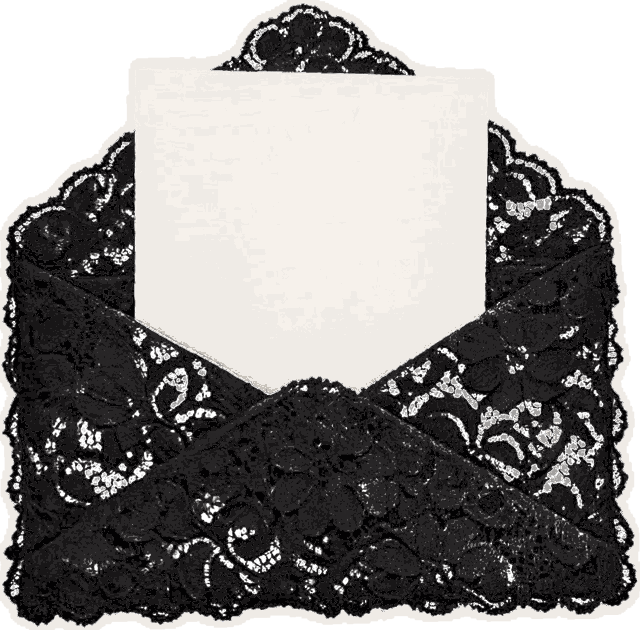
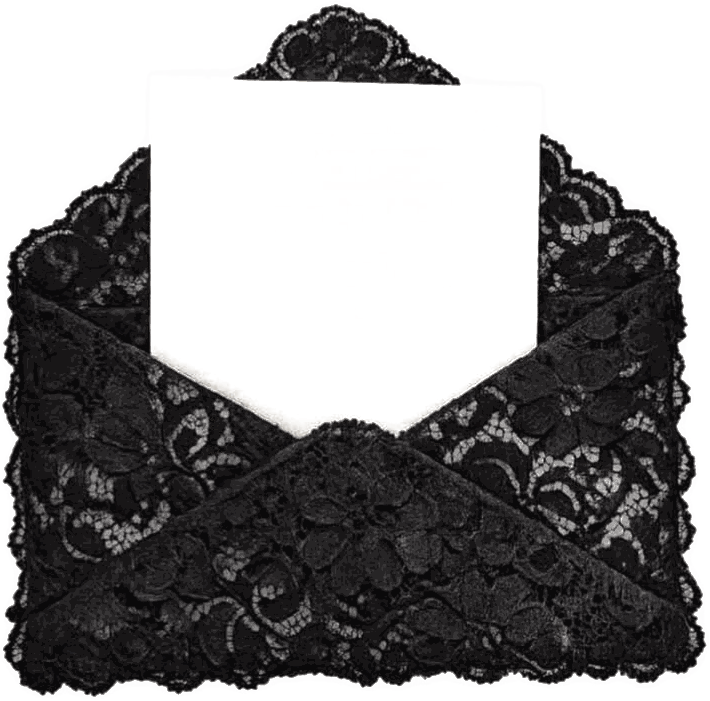
Correções da Mariana: história, dress code, RSVP e acordeão
- Nossa história: texto sempre visível, por cima da foto da praia em P&B
  (como no PDF); as fotos passando vêm logo depois.
- Menu da capa com cara de botão (pílulas), em vez de texto solto.
- Dress Code refeito como no PDF: moldura de renda, foto principal e
  referências all black passando.
- Confirme sua presença: o título fica escrito na folha dentro do
  envelope (monograma + texto).
- Lista de presentes vira acordeão que abre e fecha (começa fechada).
- Transições entre blocos bordô e creme com degradê, não com linha reta.
- Usa as artes limpas enviadas pela Mariana (bistrô, envelope, renda,
  cachorros) e remove a ilustração não usada da torre.

Claude-Session: https://claude.ai/code/session_01267eLTqaY5nyv3X6eqU5WE

diff --git a/site/index.html b/site/index.html
@@ -82,16 +82,13 @@
     </header>
 
     <main>
-      <!-- ---- NOSSA HISTÓRIA (recolhível, começa fechada) ---- -->
-      <details id="historia" class="bloco bloco--historia">
-        <summary>
-          <div class="bloco-inner">
-            <h2 class="script titulo-secao" data-bind="secoes.historia.titulo">·</h2>
-            <span class="bloco-chevron"></span>
-          </div>
-        </summary>
-        <div class="bloco-inner historia-texto" data-bind-paragrafos="secoes.historia.paragrafos"></div>
-      </details>
+      <!-- ---- NOSSA HISTÓRIA (texto sobre a foto, sempre visível) ---- -->
+      <section id="historia" class="bloco bloco--historia">
+        <div class="bloco-inner">
+          <h2 class="script titulo-secao" data-bind="secoes.historia.titulo">·</h2>
+          <div class="historia-texto" data-bind-paragrafos="secoes.historia.paragrafos"></div>
+        </div>
+      </section>
 
       <!-- ---- SLIDESHOW (nossas fotos passando) ---- -->
       <section id="slideshow" class="bloco bloco--creme">
@@ -107,14 +104,9 @@
       </section>
 
       <!-- ---- QUANDO & ONDE ---- -->
-      <details id="quando" class="bloco bloco--creme" open>
-        <summary>
-          <div class="bloco-inner">
-            <h2 class="script titulo-secao" data-bind="secoes.quandoOnde.titulo">·</h2>
-            <span class="bloco-chevron"></span>
-          </div>
-        </summary>
+      <section id="quando" class="bloco bloco--creme">
         <div class="bloco-inner">
+          <h2 class="script titulo-secao" data-bind="secoes.quandoOnde.titulo">·</h2>
           <img class="ill ill-venue" src="assets/ill/venue.png" alt="Ilustração do espaço da festa">
           <div class="dados">
             <p>Data: <strong data-bind="evento.dataTexto">·</strong></p>
@@ -129,32 +121,30 @@
           </div>
           <img class="foto-jardim" src="assets/fotos/jardim.jpg" alt="Felipe e Mariana">
         </div>
-      </details>
+      </section>
 
-      <!-- ---- DRESS CODE ---- -->
-      <details id="dress" class="bloco bloco--bordo bloco--dress" open>
-        <summary>
-          <div class="bloco-inner">
-            <h2 class="script titulo-secao" data-bind="secoes.dressCode.titulo">·</h2>
-            <span class="bloco-chevron"></span>
-          </div>
-        </summary>
+      <!-- ---- DRESS CODE (igual ao PDF: renda + foto + referências) ---- -->
+      <section id="dress" class="bloco bloco--bordo bloco--dress">
         <div class="bloco-inner">
+          <h2 class="script titulo-secao" data-bind="secoes.dressCode.titulo">·</h2>
           <p class="dress-destaque" data-bind="secoes.dressCode.destaque">·</p>
           <p class="corpo" data-bind="secoes.dressCode.corpo">·</p>
+          <img class="dress-foto" src="assets/fotos/dress-ref-1.jpg" alt="Inspiração all black">
+          <p class="rotulo rotulo--claro">Referências</p>
+          <div id="dress-refs" class="dress-refs"></div>
         </div>
-      </details>
+      </section>
 
-      <!-- ---- RSVP ---- -->
-      <details id="rsvp" class="bloco bloco--creme" open>
-        <summary>
-          <div class="bloco-inner">
-            <img class="ill ill-envelope" src="assets/ill/envelope.png" alt="">
-            <h2 class="script titulo-secao" data-bind="rsvp.titulo">·</h2>
-            <span class="bloco-chevron"></span>
-          </div>
-        </summary>
+      <!-- ---- RSVP (texto escrito na folha do envelope) ---- -->
+      <section id="rsvp" class="bloco bloco--creme">
         <div class="bloco-inner">
+          <div class="envelope-wrap">
+            <img class="ill ill-envelope" src="assets/ill/envelope.png" alt="">
+            <div class="envelope-texto">
+              <img class="envelope-mono" src="assets/monograma.svg" alt="">
+              <span class="script envelope-titulo" data-bind="rsvp.titulo">·</span>
+            </div>
+          </div>
           <p class="rsvp-grupo">Convite: <strong id="rsvp-grupo">·</strong></p>
           <form id="rsvp-form">
             <div id="rsvp-pessoas"></div>
@@ -163,13 +153,14 @@
           </form>
           <p id="rsvp-lembrete" class="lembrete" data-bind="rsvp.lembreteSemPresente" hidden>·</p>
         </div>
-      </details>
+      </section>
 
-      <!-- ---- PRESENTES ---- -->
-      <details id="presentes" class="bloco bloco--creme" open>
+      <!-- ---- PRESENTES (acordeão: abre e fecha) ---- -->
+      <details id="presentes" class="bloco bloco--creme bloco--acordeao">
         <summary>
           <div class="bloco-inner">
             <h2 class="script titulo-secao" data-bind="presentes.titulo">·</h2>
+            <span class="acordeao-dica">toque para ver a lista</span>
             <span class="bloco-chevron"></span>
           </div>
         </summary>
@@ -182,18 +173,13 @@
       </details>
 
       <!-- ---- RECADOS (bordô) ---- -->
-      <details id="recados" class="bloco bloco--bordo bloco--recados" open>
-        <summary>
-          <div class="bloco-inner">
-            <h2 class="script titulo-secao" data-bind="secoes.recados.titulo">·</h2>
-            <span class="bloco-chevron"></span>
-          </div>
-        </summary>
+      <section id="recados" class="bloco bloco--bordo bloco--recados">
         <div class="bloco-inner">
+          <h2 class="script titulo-secao" data-bind="secoes.recados.titulo">·</h2>
           <img class="ill ill-dogs" src="assets/ill/dogs.png" alt="">
           <div data-bind-paragrafos="secoes.recados.paragrafos"></div>
         </div>
-      </details>
+      </section>
 
       <!-- ---- MURAL (creme) ---- -->
       <section id="mural" class="bloco bloco--creme">

diff --git a/site/assets/base.css b/site/assets/base.css
@@ -192,14 +192,15 @@ label { display: block; margin-bottom: 0.35rem; color: var(--tinta-suave); }
 
 .capa-nav {
   margin-top: auto; padding-top: 1.8rem;
-  display: flex; flex-wrap: wrap; justify-content: center; gap: .4rem 1.6rem;
+  display: flex; flex-wrap: wrap; justify-content: center; gap: .6rem .7rem;
 }
 .capa-nav a {
   color: var(--creme); text-decoration: none;
-  font-family: var(--fonte-titulo); font-size: clamp(1.65rem, 5.5vw, 2.2rem); line-height: 1.15;
-  opacity: .96;
+  font-family: var(--fonte-titulo); font-size: clamp(1.45rem, 5vw, 1.95rem); line-height: 1;
+  border: 1px solid rgba(255,255,255,.5); border-radius: 999px;
+  padding: .5rem 1.15rem; background: rgba(255,255,255,.07);
 }
-.capa-nav a:hover { opacity: .75; }
+.capa-nav a:hover { background: rgba(255,255,255,.16); }
 
 /* ---- BLOCOS ---- */
 .bloco { padding: clamp(3rem, 11vw, 5rem) 0; scroll-margin-top: var(--nav-altura); position: relative; }
@@ -219,22 +220,43 @@ details.bloco > summary .titulo-secao { margin: 0; }
 .bloco--bordo .bloco-chevron { border-color: var(--creme); }
 details.bloco[open] > summary { margin-bottom: 1.3rem; }
 details.bloco[open] .bloco-chevron { transform: rotate(-135deg); margin-top: 0.9rem; }
+/* Acordeão da lista de presentes */
+.bloco--acordeao > summary:hover { background: rgba(116,12,35,.03); }
+.acordeao-dica {
+  display: block; text-align: center; font-size: .72rem; letter-spacing: .18em;
+  text-transform: uppercase; color: var(--tinta-suave); margin-top: .55rem;
+}
+details.bloco--acordeao[open] .acordeao-dica { display: none; }
 .bloco--creme { background: var(--creme); color: var(--tinta); }
 .bloco--bordo { background: var(--bordo); color: var(--creme); }
 .bloco--bordo .script { color: var(--creme); }
 .bloco--bordo .rotulo { color: rgba(255,255,255,.72); }
 .bloco p { margin: 0 0 1rem; }
 
-/* ---- NOSSA HISTÓRIA (texto sobre foto P&B esmaecida) ---- */
-.bloco--historia { background: var(--bordo); color: var(--creme); overflow: hidden; }
+/* ---- NOSSA HISTÓRIA (texto sobre a foto P&B, bem visível) ---- */
+.bloco--historia { background: var(--bordo-esc); color: var(--creme); overflow: hidden; }
 .bloco--historia::before {
-  content: ''; position: absolute; inset: 0;
-  background: url('fotos/praia.jpg') center 30%/cover no-repeat;
-  filter: grayscale(1); opacity: .16;
+  content: ''; position: absolute; inset: 0; z-index: 0;
+  background: url('fotos/praia.jpg') center 28%/cover no-repeat;
+  filter: grayscale(1); opacity: .5;
 }
-.bloco--historia .bloco-inner { position: relative; }
-.bloco--historia .titulo-secao { color: var(--creme); text-shadow: 0 2px 20px rgba(0,0,0,.4); }
-.historia-texto p { color: rgba(255,255,255,.94); }
+.bloco--historia::after {
+  content: ''; position: absolute; left: 0; right: 0; bottom: 0; height: 64px; z-index: 0;
+  background: linear-gradient(to top, var(--creme), rgba(251,243,231,0));
+}
+.bloco--historia { padding-bottom: clamp(5rem, 14vw, 6.5rem); }
+.bloco--historia .bloco-inner { position: relative; z-index: 1; }
+.bloco--historia .titulo-secao { color: var(--creme); text-shadow: 0 2px 16px rgba(0,0,0,.6); }
+.historia-texto p { color: #fff; text-shadow: 0 1px 10px rgba(0,0,0,.65); }
+
+/* Transições suaves (degradê) entre blocos bordô e creme, em vez de linha reta */
+.bloco--dress, .bloco--recados {
+  padding-top: clamp(5rem, 14vw, 6.5rem); padding-bottom: clamp(5rem, 14vw, 6.5rem);
+  background:
+    linear-gradient(to bottom, var(--creme), rgba(251,243,231,0) 64px) top/100% 64px no-repeat,
+    linear-gradient(to top, var(--creme), rgba(251,243,231,0) 64px) bottom/100% 64px no-repeat,
+    var(--bordo);
+}
 
 /* ---- SLIDESHOW ---- */
 .slideshow-palco {
@@ -295,8 +317,32 @@ details.bloco[open] .bloco-chevron { transform: rotate(-135deg); margin-top: 0.9
   text-align: center; margin: 0 0 .8rem; letter-spacing: .02em;
 }
 .bloco--dress .corpo { text-align: center; color: rgba(255,255,255,.92); max-width: 30ch; margin: 0 auto; }
+.rotulo--claro { color: rgba(255,255,255,.78); margin: 1.6rem 0 .2rem; }
+.dress-foto {
+  width: min(80%, 320px); aspect-ratio: 3/4; object-fit: cover; margin: 1.6rem auto .4rem;
+  filter: grayscale(1) contrast(1.04); border: 1px solid rgba(255,255,255,.45); padding: 6px;
+}
+.dress-refs {
+  position: relative; width: min(82%, 330px); margin: .8rem auto 0;
+  aspect-ratio: 3/4; border-radius: 4px; overflow: hidden; background: #0c0607;
+  box-shadow: 0 10px 26px rgba(0,0,0,.28);
+}
+.dref {
+  position: absolute; inset: 0; width: 100%; height: 100%; object-fit: cover;
+  opacity: 0; transition: opacity 1s ease; filter: grayscale(1) contrast(1.04);
+}
+.dref.ativo { opacity: 1; }
 
-/* ---- RSVP ---- */
+/* ---- RSVP (texto na folha do envelope) ---- */
+.envelope-wrap { position: relative; width: min(76%, 310px); margin: 0 auto 1.4rem; }
+.envelope-wrap .ill-envelope { width: 100%; margin: 0; }
+.envelope-texto {
+  position: absolute; left: 50%; top: 31%; transform: translate(-50%, -50%);
+  width: 60%; text-align: center; display: flex; flex-direction: column; align-items: center; gap: .15rem;
+  pointer-events: none;
+}
+.envelope-mono { width: 32px; height: auto; margin: 0 auto; }
+.envelope-titulo { color: var(--bordo); font-size: clamp(1.1rem, 4.6vw, 1.5rem); line-height: 1.02; }
 .rsvp-grupo { text-align: center; margin: 0 0 1rem; }
 .pessoa-rsvp { display: grid; gap: 0.5rem; padding: 1rem 0; border-bottom: 1px solid var(--linha); }
 .pessoa-rsvp strong { font-size: 1.1rem; }

diff --git a/site/assets/app.js b/site/assets/app.js
@@ -116,6 +116,7 @@
     hydrateLinks();
     ocultarSecoesVazias();
     montarSlideshow();
+    montarDressRefs();
     iniciarContagem();
     montarRsvp();
     carregarPresentes();
@@ -178,6 +179,24 @@
   function reiniciarTimerSlide() {
     if (slideTimer) clearInterval(slideTimer);
     slideTimer = setInterval(function () { irSlide(slideIdx + 1, false); }, 4500);
+  }
+
+  // ---- Referências do dress code (fotos all black passando) ----
+  function montarDressRefs() {
+    var palco = $('#dress-refs'); if (!palco) return;
+    var srcs = ['dress-ref-2', 'dress-ref-3', 'dress-ref-4', 'dress-ref-5'];
+    palco.innerHTML = '';
+    var imgs = srcs.map(function (s, i) {
+      var im = el('img', { class: 'dref' + (i === 0 ? ' ativo' : ''),
+        src: 'assets/fotos/' + s + '.jpg', alt: 'Referência all black', loading: 'lazy' });
+      palco.appendChild(im); return im;
+    });
+    var idx = 0;
+    if (imgs.length > 1) setInterval(function () {
+      imgs[idx].classList.remove('ativo');
+      idx = (idx + 1) % imgs.length;
+      imgs[idx].classList.add('ativo');
+    }, 3500);
   }
   function abrirFoto(i) {
     if (!galeriaFotos.length) return;
